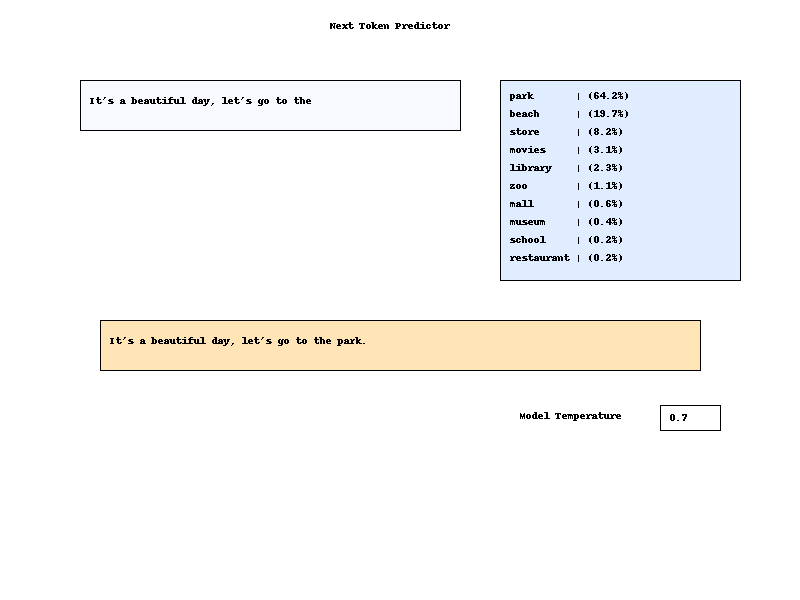
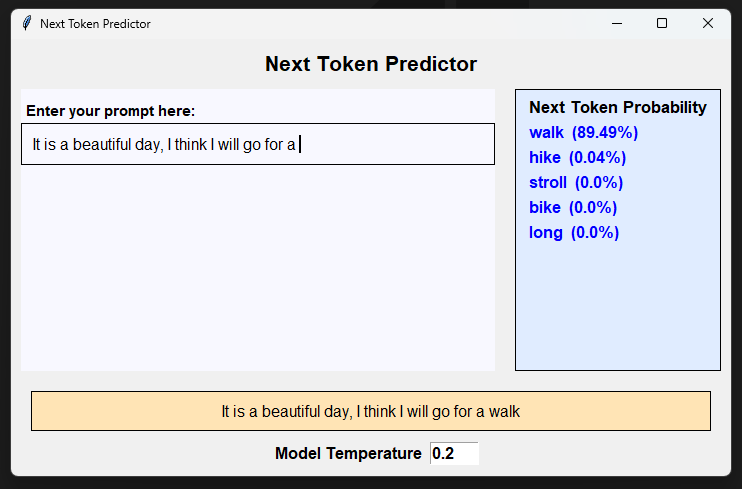
:zap: Add README and markdownlint configuration, update UI screenshot

diff --git a/README.md b/README.md
@@ -1,0 +1,82 @@
+# Next Token Predictor
+
+🚀 **Next Token Predictor**
+
+A simple, interactive Python tool for predicting the next token in a text sequence using OpenAI's GPT model. This project is designed for educational purposes, NLP experimentation, and as a potential foundation for more advanced AI projects.
+
+![App UI](assets/final_next_token_predictor_ui.png)
+
+## Features
+
+- 🧠 Predicts the next token in a user-provided text sequence
+- Uses OpenAI's GPT model to predict the next token in your sequence
+- Clean, user-friendly interface (see screenshot above)
+- Easy to extend and customize for your own experiments
+
+## Getting Started
+
+### Prerequisites
+
+- Python 3.8+
+
+### Installation
+
+1. Clone this repository:
+
+   ```sh
+   git clone https://github.com/m2web/next-token-predictor.git
+   cd next-token-predictor
+   ```
+
+2. (Optional) Create and activate a virtual environment:
+
+   ```sh
+   python -m venv venv
+   .\venv\Scripts\activate
+   ```
+
+3. Install dependencies (if any):
+
+   ```sh
+   pip install -r requirements.txt
+   ```
+
+### Usage
+
+Run the predictor:
+
+```sh
+python next_token_predictor.py
+```
+
+Follow the on-screen instructions to input your text and see the predicted next token.
+Follow the on-screen instructions to input your text and see the predicted next token. The app will display the top predicted next tokens and their probabilities, as provided by the OpenAI model.
+
+## Project Structure
+
+```text
+├── next_token_predictor.py                # Main application (OpenAI GPT-based predictor)
+├── next_token_predictor_corrected.py      # Improved/corrected version (also OpenAI GPT-based)
+├── next-token-predictor-old.py            # Legacy version (OpenAI GPT-based, CLI)
+├── chat-bubble.py                         # UI/utility module
+├── assets/
+│   ├── final_next_token_predictor_ui.png  # UI screenshot
+│   └── token-predictor.drawio.pdf         # Architecture diagram
+```
+
+## Contributing
+
+Contributions are welcome! Please open issues or submit pull requests for improvements, bug fixes, or new features.
+
+## License
+
+This project is licensed under the MIT License. See [LICENSE](LICENSE) for details.
+
+## Acknowledgements
+
+- Inspired by classic NLP and AI research
+- UI design by [m2web](https://github.com/m2web)
+
+---
+
+🌟 _If you find this project useful, please star the repo!_
